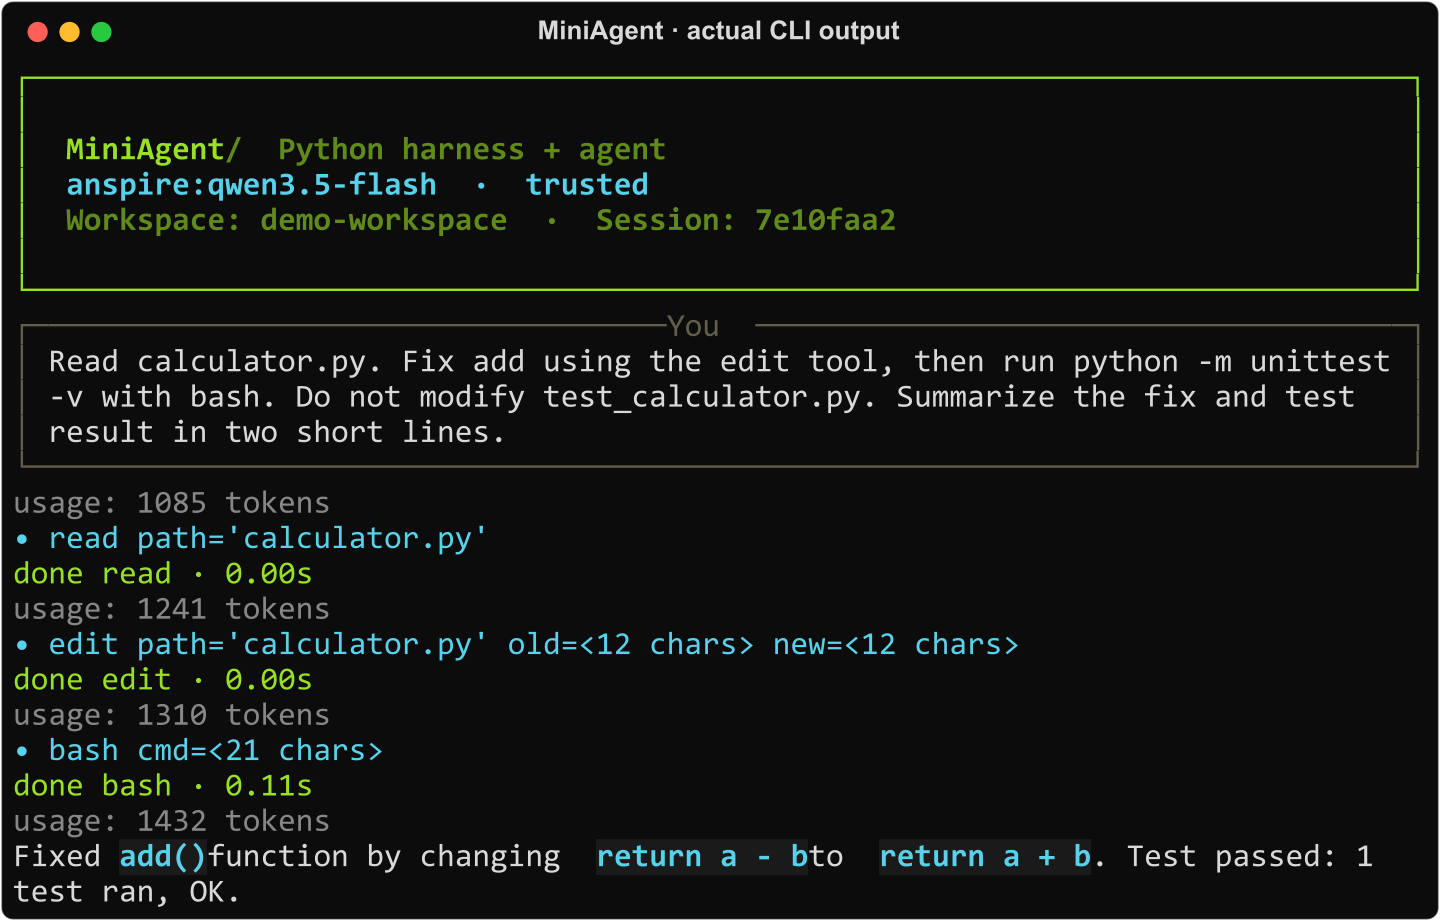
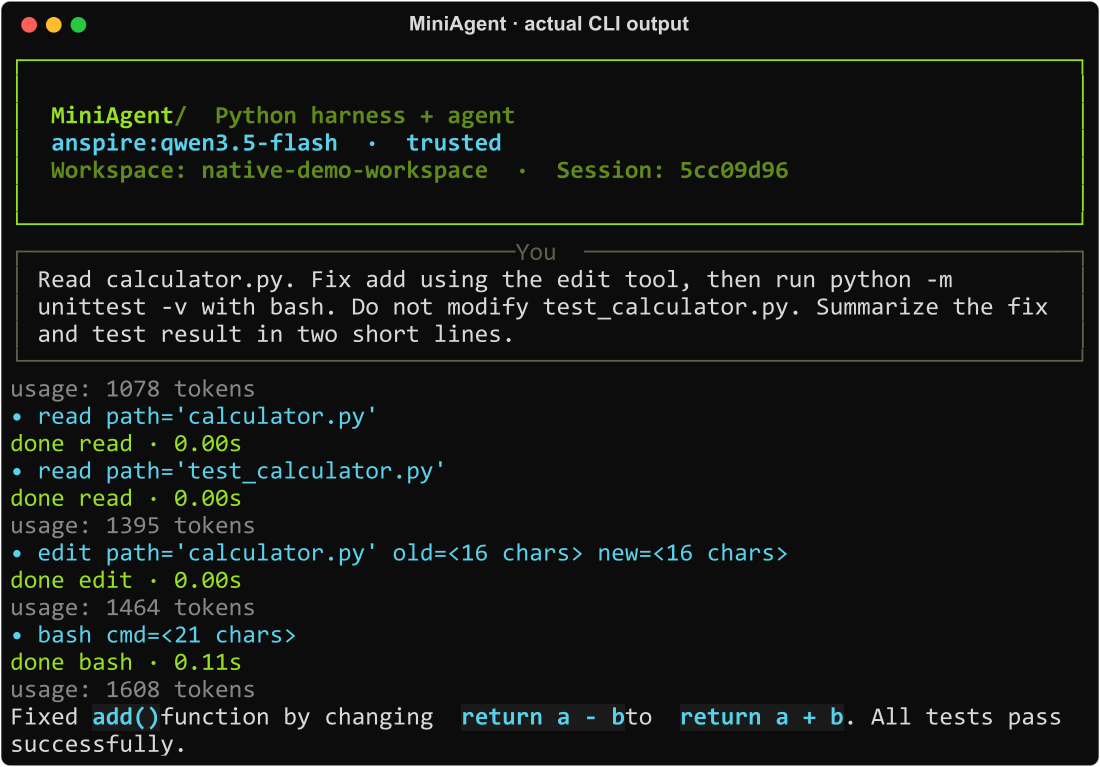
docs: verify native repair and resumed session with a real model

diff --git a/docs/demo.md b/docs/demo.md
@@ -2,7 +2,7 @@
 
 ## 记录说明
 
-2026-10-17，Windows、Python 3.12、MiniAgent `0.2.0a1`。运行基于 main `64c1fcb` 加本 PR 的 CLI 展示改动。模型为 Anspire 网关的 `qwen3.5-flash`，通过自定义 OpenAI-compatible 连接调用。
+2026-10-17，Windows、Python 3.12.10、MiniAgent `0.3.0a1`。运行版本为原生精简提交 [`3bb2f20`](https://github.com/ZhuLinsen/MiniAgent/commit/3bb2f20b444a441337b19cf13724e5c233c388d7)，各包源文件 SHA-256 保存在元数据中。模型为 Anspire 网关的 `qwen3.5-flash`，通过自定义 OpenAI-compatible 连接调用。
 
 截图来自 `scripts/capture_terminal.py` 对真实 CLI Rich Console 的记录：只替换输出接收端，不替换模型、工具或授权。原始内容：[文本](assets/coding-session.txt)、[SVG](assets/coding-session.svg)、[脱敏运行元数据](assets/coding-session.json)。PNG 由 SVG 栅格化；未重写回答、补画工具结果或模拟 API。
 
@@ -11,9 +11,10 @@ The screenshot renders a real CLI recording. Only the output sink is replaced; t
 ## 任务与结果
 
 - 初始 `calculator.py` 错误地使用 `return a - b`。
-- Agent 依次调用 `read`、`edit`、`bash`，把减法改为加法并执行 `python -m unittest -v`。
-- 测试包含两个断言；模型之外另跑一次原测试确认通过，并对比 SHA-256 确认测试文件未改动。
-- 最终展示运行共 4 次模型请求，供应商回报合计 5,068 tokens；没有测量或推断金额。
+- Agent 读取源文件和测试文件，然后调用 `edit`、`bash`，把减法改为加法并执行 `python -m unittest -v`。
+- 测试包含两个断言；调用模型前独立运行确认失败，修复后再独立运行确认通过，并对比 SHA-256 确认测试文件未改动。
+- 修复共 4 次模型请求、5,545 tokens。关闭 CLI 后用同一 JSONL 路径续接，再用 1 次请求、1,622 tokens 正确回忆修改和测试结果；两轮合计 7,167 tokens，没有测量或推断金额。
+- [续接原始输出](assets/coding-resume.txt)与元数据记录了第二轮结果；两轮共 2 条用户消息，全部工具结果配对，没有重放工具或留下不确定调用。
 - 此次截取使用 `--no-stream`，便于完整保留 Markdown 最终回答。流式协议另有回归与历史真实验收。
 - 本地验收限制每次输出最多 700 tokens、每次请求 40 秒、最多 6 次请求；这是本次验收保护，不是生产 CLI 的默认限额。
 
@@ -35,6 +36,12 @@ python scripts/capture_terminal.py --output demo-capture -- --workspace demo-wor
 命令会实际调用你的供应商并产生用量，输出 `demo-capture.txt` 和 `demo-capture.svg`。用浏览器打开 SVG，或用现有 SVG 渲染工具转 PNG；生产包不新增图像依赖。不要复用包含私有数据的工作区录制公开演示。
 
 4. 在 `demo-workspace` 复跑 `python -m unittest -v`，检查只修复了 `calculator.py`。
+
+5. 使用首次会话对应的 JSONL 路径（交互中可用 `/session` 查看完整路径）续接，检查能否回忆上一轮，不再次运行工具：
+
+```bash
+miniagent --session <session-jsonl-path> --workspace demo-workspace --no-stream --prompt "Without calling any tools, briefly recall which function you fixed and the test result from our previous turn."
+```
 
 ## 设计资产
 

diff --git a/docs/project-status.md b/docs/project-status.md
@@ -62,6 +62,7 @@ flowchart LR
 - 当前离线验证为 **174 passed、3 live deselected**；父版本收集 295 项，候选版收集 177 项。旧能力专用测试退役，原生 Harness、响应式插件、Session、LLM、协议、MCP、连接和日志八个模块的原测试 ID 全部保留；另补原生迁移与示例检查。
 - Ruff、编译、治理检查、锁文件校验、生产依赖审计与 sdist/wheel 构建通过。Windows / Python 3.12 独立 wheel 无可选依赖安装通过，wheel 为 41,210 bytes；安装环境约 34 MB，仍需第三方模型 SDK。
 - 真实 API、真实 MCP 与确定性模拟分别报告。小型修复不代表复杂仓库成功率；平台凭据库、长会话、真实复杂仓库任务仍需后续验收。
+- 原生提交 `3bb2f20` 的 Anspire `qwen3.5-flash` 修复与跨 CLI 会话续接通过：共 5 次请求、7,167 tokens，原测试从失败到通过且内容未改，工具结果完整配对。截图、原始文本、所有运行源文件哈希及局限见 [真实演示](demo.md)。
 - 最终测试、构建、审计、安装结果见本 PR 描述与当前提交 CI；不会把父版本的绿色检查算作本候选通过。
 - 原生 JSONL 格式和连接档案保留；旧 Memory JSON 不自动导入、不删除，未知工具副作用不重放。
 
